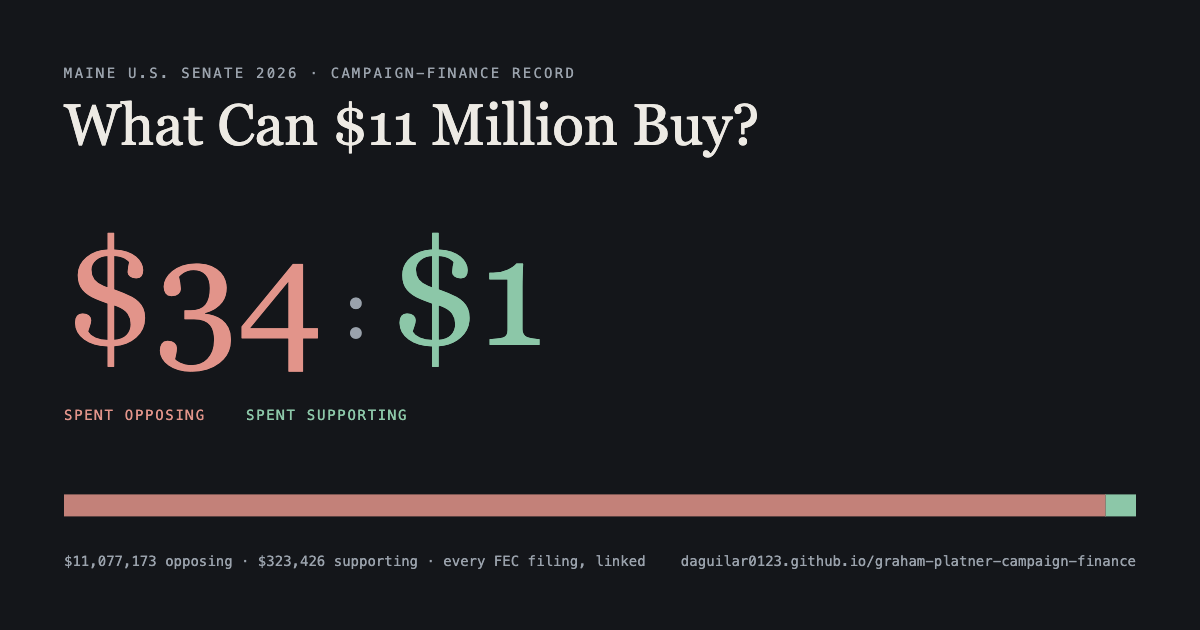
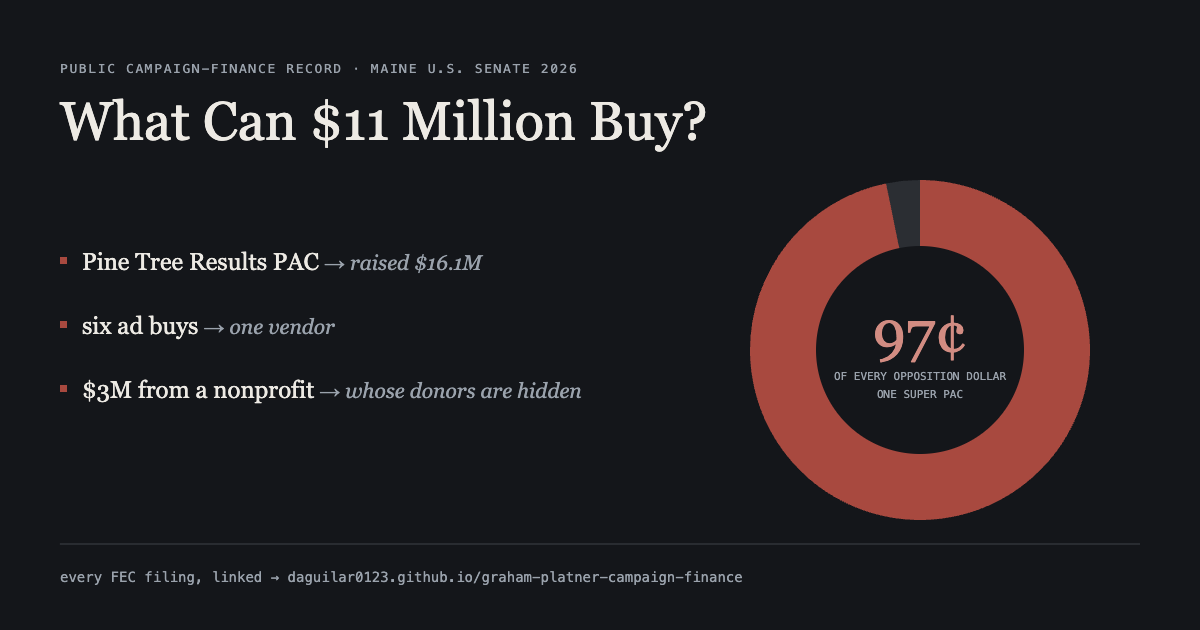
Claude Design v3: full redesign + section images and new OG card; deeper-pull FEC block preserved; image attribution metadata re-embedded

diff --git a/index.html b/index.html
@@ -287,6 +287,13 @@ dialog.fdlg::backdrop{background:rgba(10,12,14,.55);backdrop-filter:blur(2px)}
   .ibadge .dot{animation:ipulse 1.6s ease-in-out infinite}
   @keyframes ipulse{0%,100%{box-shadow:0 0 0 0 rgba(61,90,115,.5)}50%{box-shadow:0 0 0 6px rgba(61,90,115,0)}}
 }
+/* ——— section nav ——— */
+.secnav{position:fixed;right:14px;top:50%;transform:translateY(-50%);display:flex;flex-direction:column;gap:6px;z-index:50}
+html:not(.js) .secnav{display:none}
+.secnav button{font-family:var(--mono);font-size:15px;line-height:1;width:38px;height:38px;display:flex;align-items:center;justify-content:center;background:var(--surface);color:var(--muted);border:1px solid var(--hair-strong);border-radius:3px;cursor:pointer;padding:0}
+.secnav button:hover{color:var(--ink);border-color:var(--accent)}
+@media(max-width:1120px){.secnav{right:8px;top:auto;bottom:90px;transform:none}}
+@media print{.secnav{display:none}}
 @media print{body{background:#fff;color:#000}.finwrap{overflow:visible}}
 </style>
 </head>
@@ -542,6 +549,13 @@ dialog.fdlg::backdrop{background:rgba(10,12,14,.55);backdrop-filter:blur(2px)}
   <p class="flow-info" id="flowinfo">Tap or click any box — a card opens with what the public record shows about it, and exactly where the trail stops.</p>
 </div>
 
+<nav class="secnav" aria-label="Section navigation">
+  <button id="nav-top" title="Jump to top" aria-label="Jump to top">↥</button>
+  <button id="nav-prev" title="Previous section" aria-label="Previous section">^</button>
+  <button id="nav-next" title="Next section" aria-label="Next section">v</button>
+  <button id="nav-bot" title="Jump to bottom" aria-label="Jump to bottom">↧</button>
+</nav>
+
 <dialog class="fdlg" id="fmodal" aria-labelledby="fmodal-title">
   <div class="fdlg-head"><h4 id="fmodal-title"></h4><button class="fdlg-close" id="fmodal-close">close ✕</button></div>
   <div class="fdlg-body" id="fmodal-body"></div>
@@ -693,6 +707,34 @@ document.documentElement.classList.add("js");
       var h=document.createElement("span");h.className="hint2";h.textContent="+ details";btn.appendChild(h);
     }
   });
+
+  // section up/down navigation
+  (function(){
+    var stops=[].slice.call(document.querySelectorAll("header, .ratio, h2, #platner-fec-filings, footer"));
+    var smooth=reduced?"auto":"smooth";
+    function posOf(el){return el.getBoundingClientRect().top+window.pageYOffset-16}
+    function go(y){window.scrollTo({top:y,behavior:smooth})}
+    function current(){
+      var y=window.pageYOffset+24,idx=-1;
+      for(var i=0;i<stops.length;i++){if(posOf(stops[i])<=y)idx=i;}
+      return idx;
+    }
+    document.getElementById("nav-top").addEventListener("click",function(){go(0)});
+    document.getElementById("nav-bot").addEventListener("click",function(){go(document.documentElement.scrollHeight)});
+    document.getElementById("nav-prev").addEventListener("click",function(){
+      var i=current();
+      if(i<=0){go(0);return}
+      // if we're well below the current stop, go to its start; else go to the previous one
+      var y=window.pageYOffset;
+      var target=(y-posOf(stops[i])>80)?i:i-1;
+      go(posOf(stops[target]));
+    });
+    document.getElementById("nav-next").addEventListener("click",function(){
+      var i=current();
+      if(i>=stops.length-1){go(document.documentElement.scrollHeight);return}
+      go(posOf(stops[i+1]));
+    });
+  })();
 
   // filing preview cards (committee spotlight)
   var dpanel=document.getElementById("docpanel");
